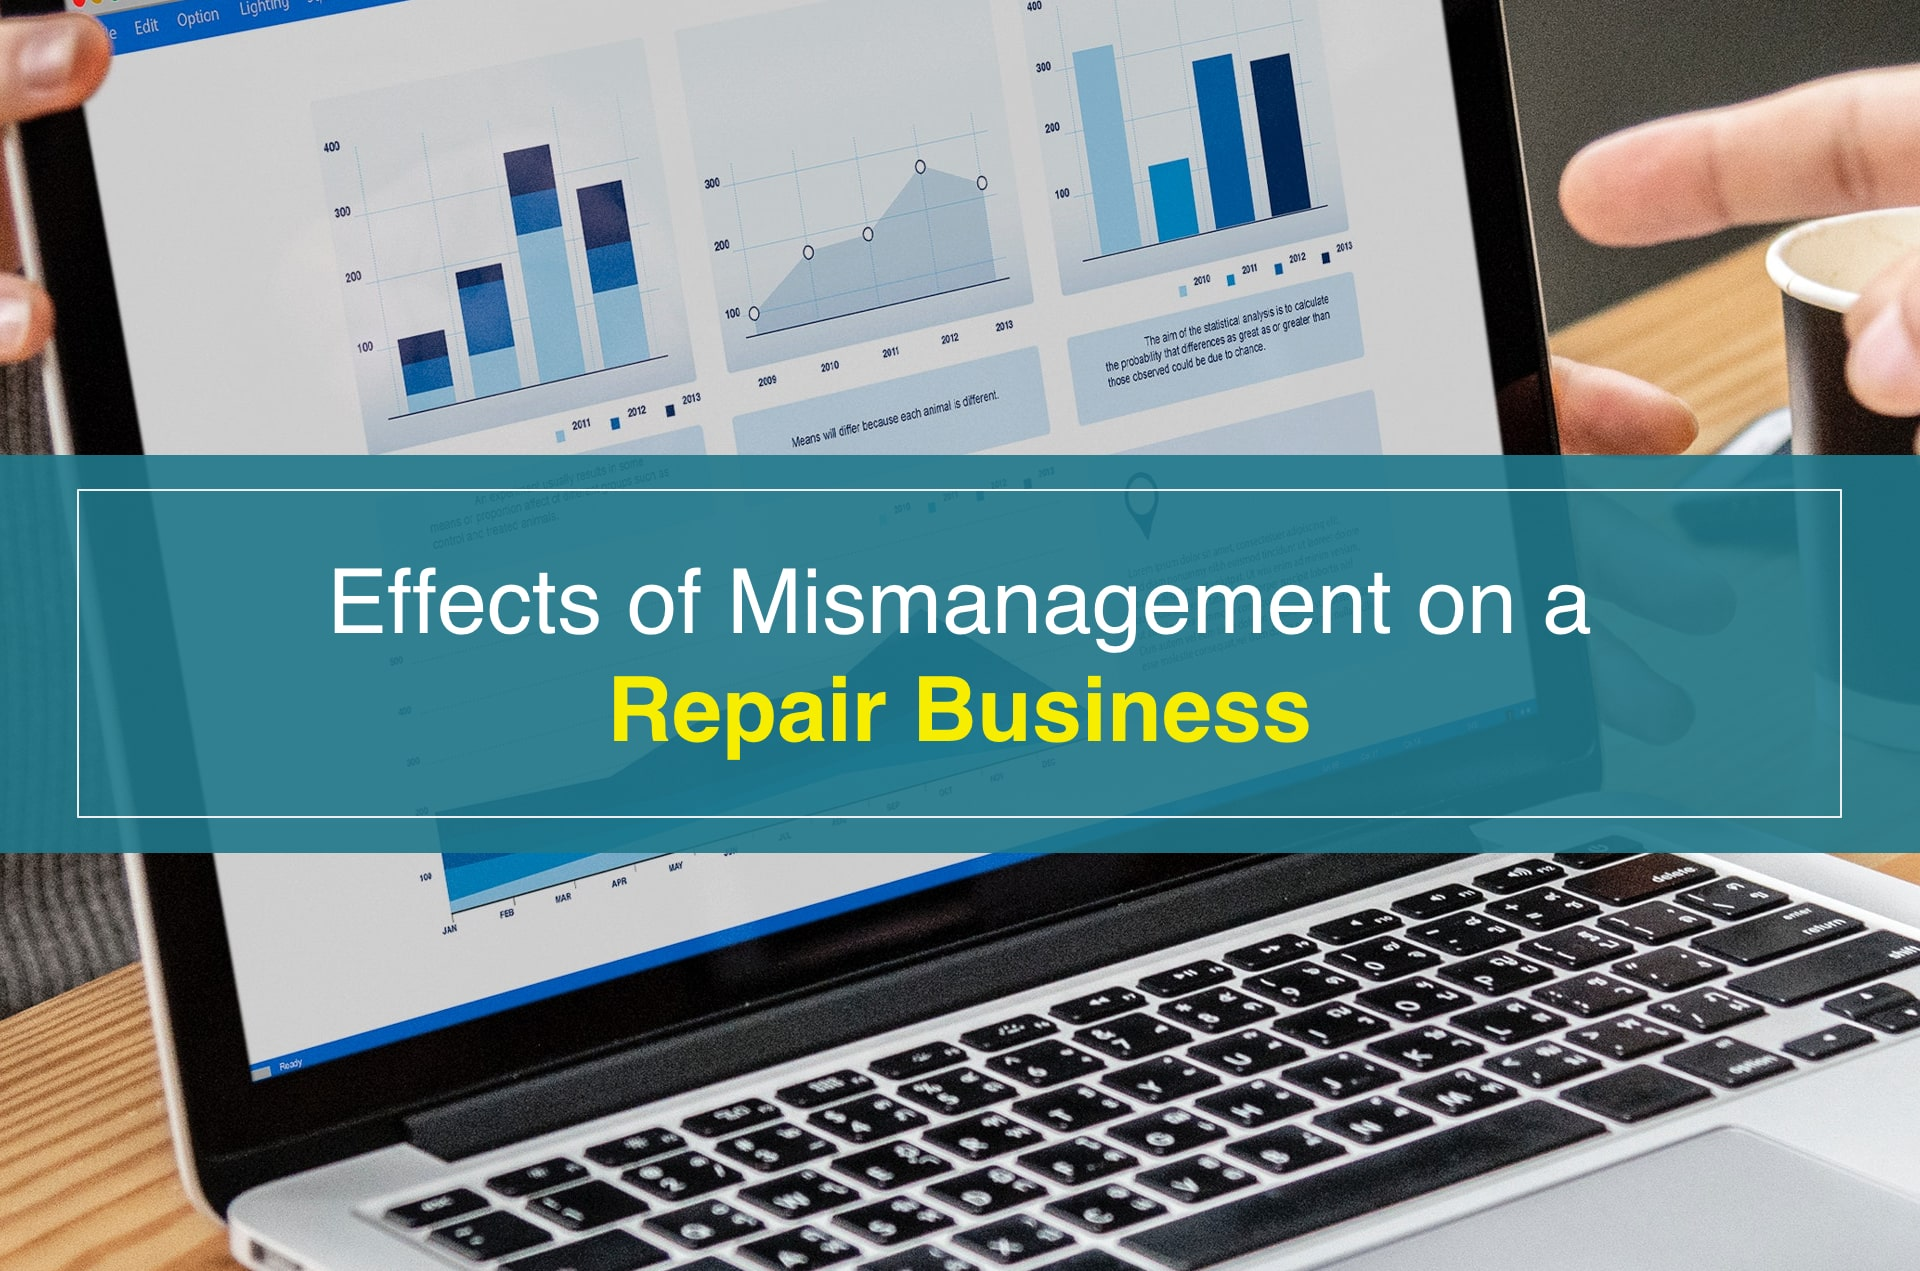
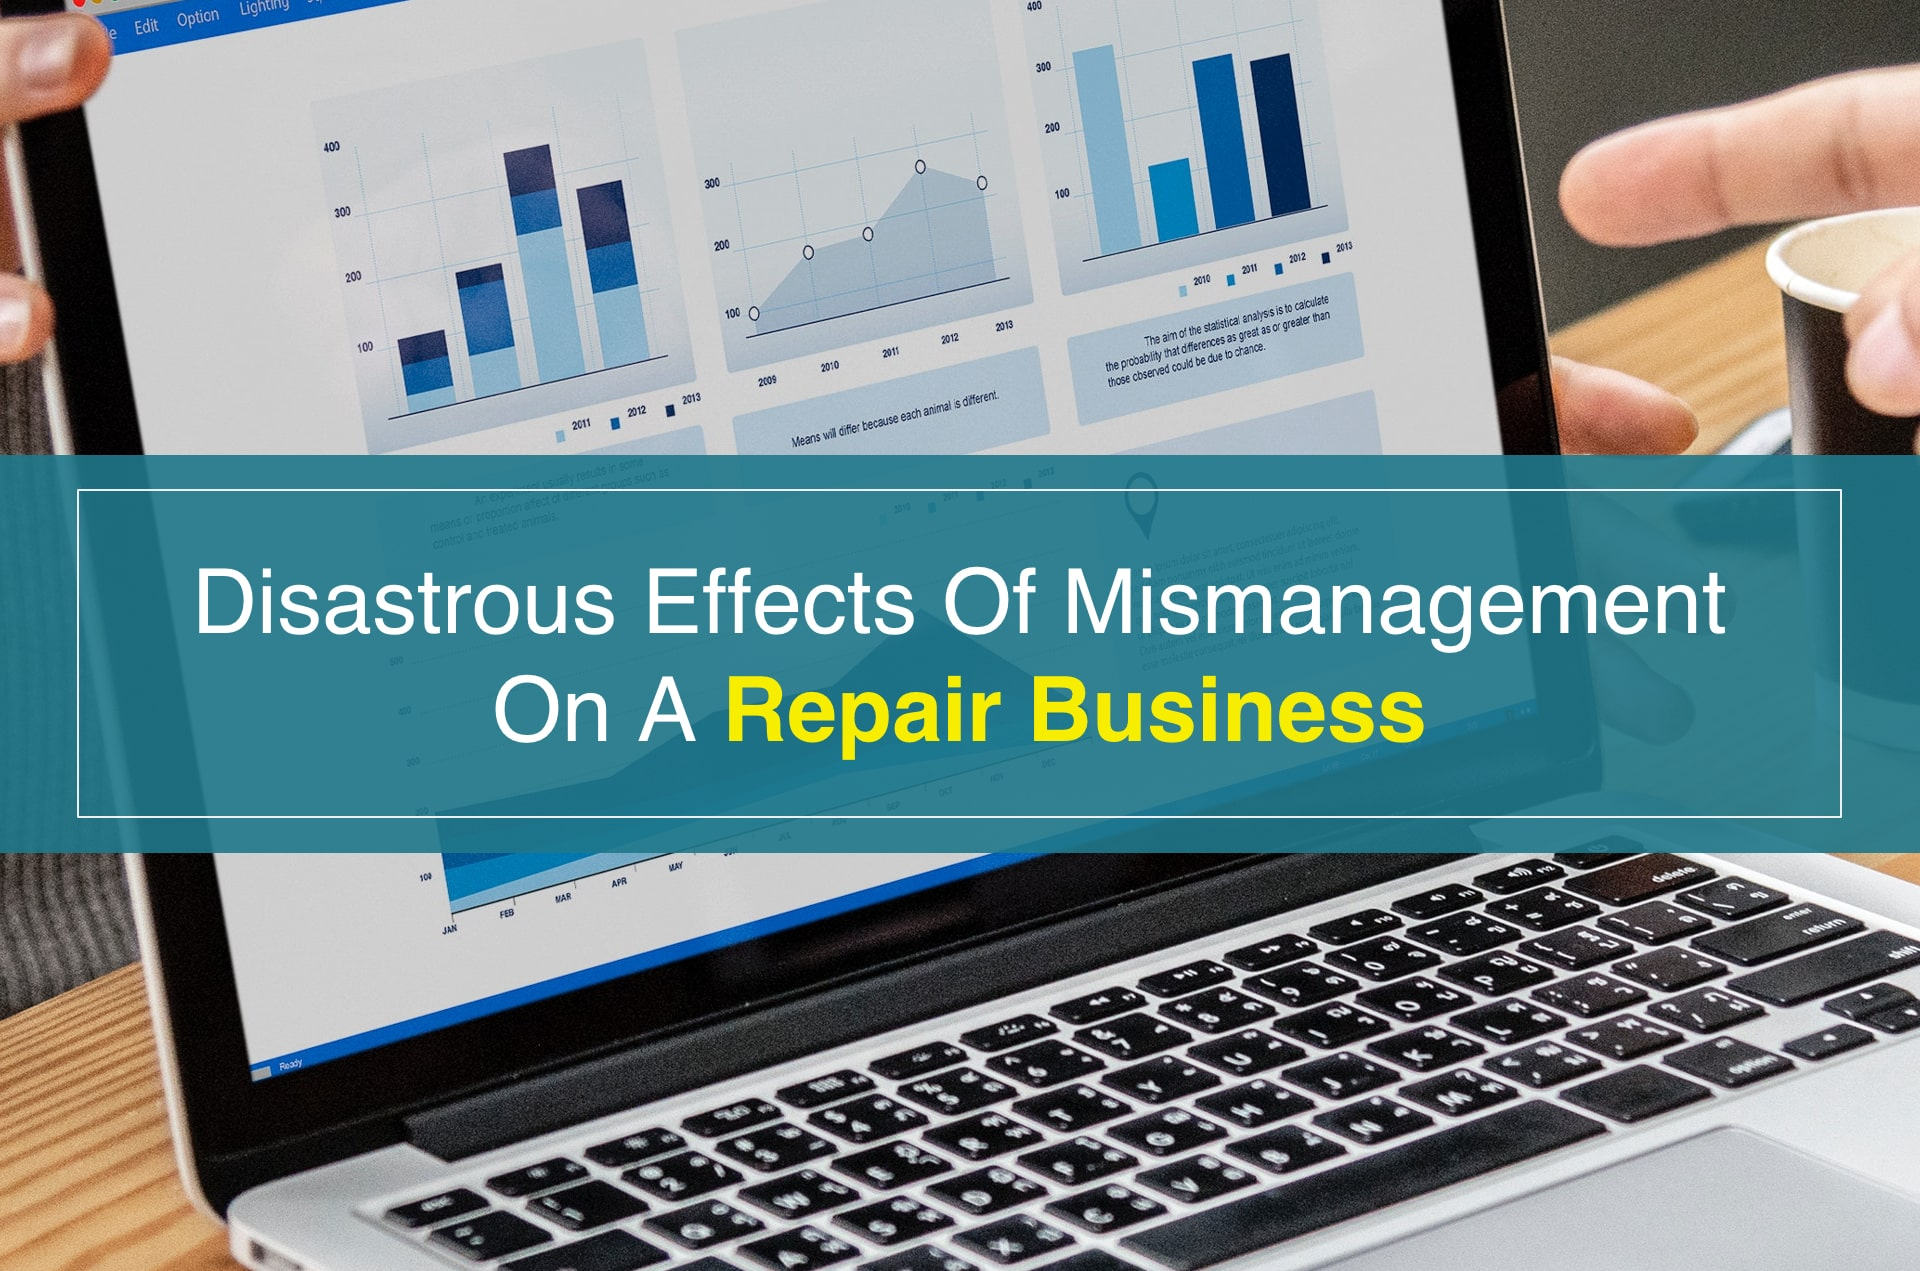
blog added "How To Avoid Mismanagement And It's Disastrous Effects"

Changed region(s): [[0.0938, 0.4296, 0.9062, 0.6137]]

diff --git a/content/blog/how-to-avoid-mismanagement-and-its-disastrous-effects?.md b/content/blog/how-to-avoid-mismanagement-and-its-disastrous-effects?.md
@@ -1,0 +1,48 @@
+---
+title: "How To Avoid Mismanagement And It's Disastrous Effects?"
+date: 2018-10-26T14:53:28+05:30
+draft: false
+auther: "RepairRabbit"
+image: "/images/blogs/how-to-avoid-mismanagement-and-its-disastrous-effects.jpg"
+tags: []
+categories: []
+---
+
+<img src="/images/blogs/how-to-avoid-mismanagement-and-its-disastrous-effects.jpg" />
+
+
+There are many strategies and different ways, to avoid mismanagement and its effects on your repair business. Strategies can be prepared easily but they're really difficult to work on when you're organization is suffering problems like mismanagement. Nowadays when there is a huge work list and high workload, it becomes more difficult for a business owner to find out solutions of the day to problems. But now a days businesses are having lot many options of handling and supervising their business online. As digital era is progressing businesses can take its advantages and build their customize management setup online.
+
+## How are the management softwares beneficial for repair businesses?
+
+Setting up online management system can help you in many ways. It becomes easy for you to keep an eye on all the factors of your repair business. It can help you by making processes easy and faster, you can reduce the amount of manual processes. As softwares are easy to use your store admin can manage it all and you can check the required details when needed. You can easily manage your whole repair business with a single software. When you're into repair business with multiple branches you need to be more focused on looking after your customer service, revenue, invoice histories, employee management etc. This all can be easily managed with online management setup.
+
+You do not need to worry about data management. You can add and store, customers' data , employees' data etc with the help of management systems. Digitalized Systems help you to avoid errors and keep the histories of important factors like invoices and appointments. You can improve on the ares which you think is important to work on. Thus it ultimately leads to benefit to the organization. Digitalized systems help you to enhance your businesses as there are less chances of big errors and mismanagement. They help you build the client data base which help you in future as you can directly pitch them for gaining business. They can be provided with work status and updated regularly about the progress of their repair. 
+
+## Why adopting an online management system is a good idea? 
+
+### One Stop Solution 
+
+As we discussed, you can operate different ares of your repair business from a single location. Multiple branches can be managed easily, which helps a business as it requires less man power and time. 
+
+### Less Chances of Errors
+
+Management softwares help you make your process faster, they'll help you manage appointments, tickets, invoices, at a single place which can be a great example of quality organization of data. You can send invoices directly to the customers which keeps you both on the same page. Organized work flow will help you to complete tasks on time and thus you can provide better services.
+
+### Revenue Management 
+
+Its quite important to keep an eye on the revenue generated from different branches. Softwares can help you to check daily, weekly and monthly revenue statistics of your revenue generated. This helps you to measure your performance as you can get clear idea about sales of previous and current period.
+
+### Organized processes 
+
+You can plan your work map according to the list of repairs you have. Some of the softwares have the appointment feature which can help you to see which of the repair is to be completed by keeping in priority. Easy inventory tracking gives you the clear idea about stock left in your repair shop. Thus you do not have to face shortage of the products as you can fill your stock on time.
+
+
+RepairRabbit will help you in digitalizing your management and making it more effective and errorless. Easy to use interface allows you to provide appointment creation to your customers, providing them status of their device etc. System also allows you to supervise multiple stores, managing financial areas, inventory tracking, undertaking employee management and much more. 
+
+
+<br>
+
+<a href="mailto:contact@repairrabbit.co?subject=Query of RepairRabbit" target="_blank">Contact us</a> for pricing & purchase information `or` try RepairRabbit <a href="https://demo.repairrabbit.co/admin" rel="noopener" target="_blank" title="RepairRabbit Demo">free</a>.
+
+<br>

diff --git a/content/blog/Effects-of-mismanagement-on-a-repair-business.md b/content/blog/Effects-of-mismanagement-on-a-repair-business.md
@@ -13,7 +13,7 @@ categories: []
 
 Mismanagement, less organized processes, lack of planning etc, together lead to many disadvantages. Sometimes due to mismanagement organization has to suffer through major revenue loss. And in today's competitive market, companies cannot afford revenue loses. Thus, its quite necassary to work according to road maps and acheivable plans.
 
-## As We disscussed previously its time to know its effects.
+## As we disscussed about <a href="/blog/mismanagement-in-a-repair-business-and-its-causes" target="_blank">mismanagement in a repair business</a> previously, its time to know its effects.
 
 ### Reduced Productivity 
 
